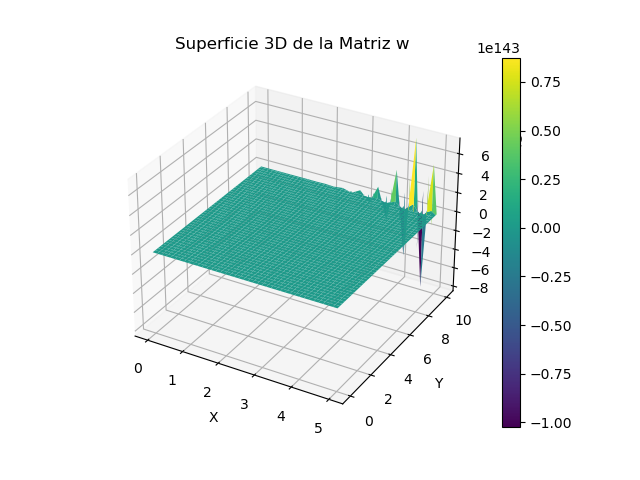
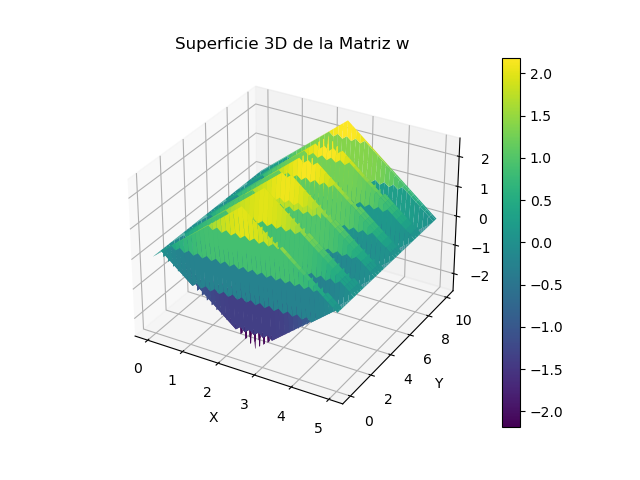
cambio

diff --git a/prueba.py b/prueba.py
@@ -21,8 +21,14 @@ print('v_max =', v_max)
 w = np.zeros((N+1, M+1))  # +1 para incluir los bordes
 
 # Función f(i, j) como fuente
+
+
 def f(x):
-    return x*(b-x)
+    if x < b/2:
+        return x
+    else:
+        return b-x 
+
 
 # Función g(i) para la condición inicial
 def g(x):
